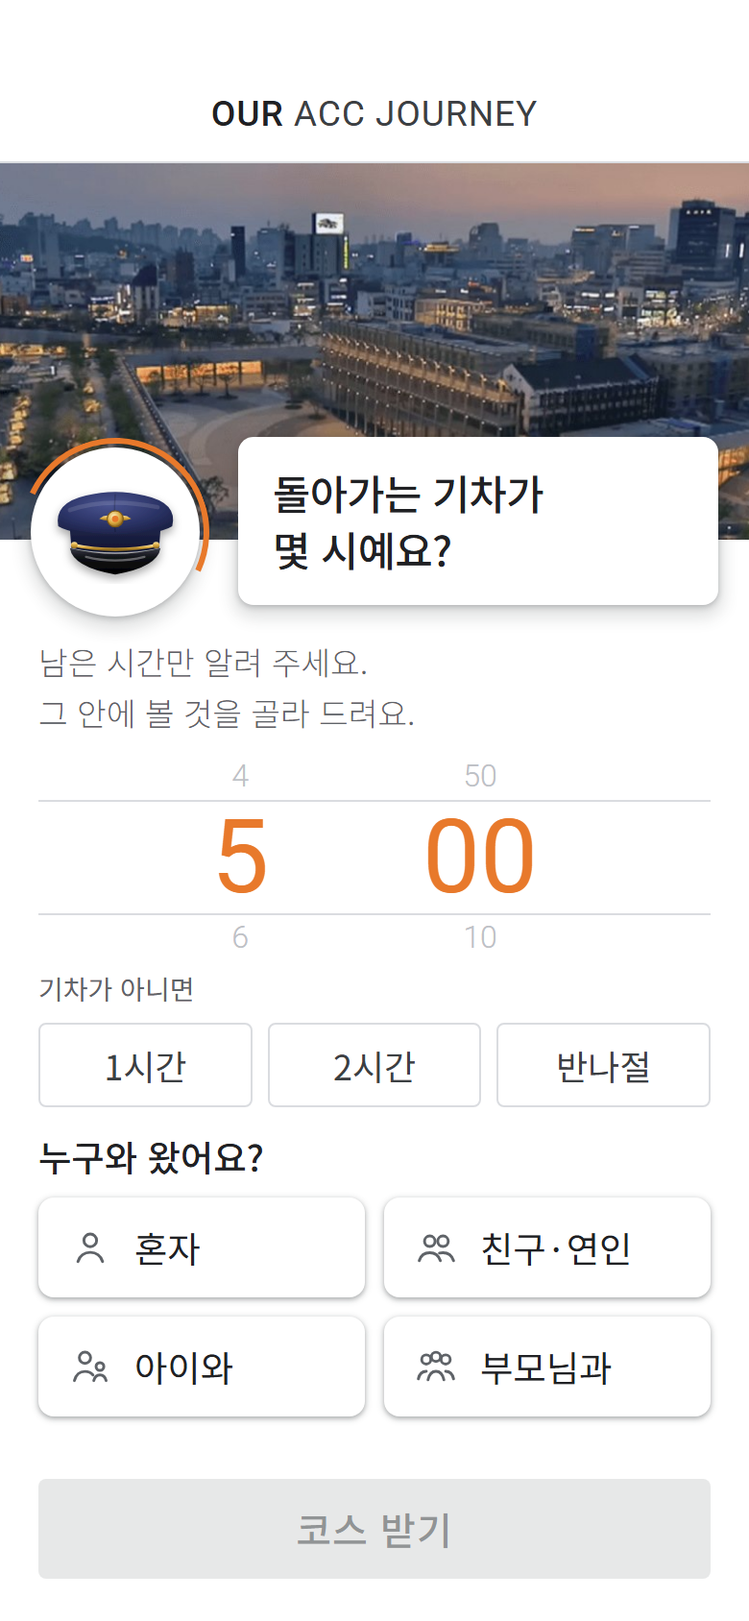
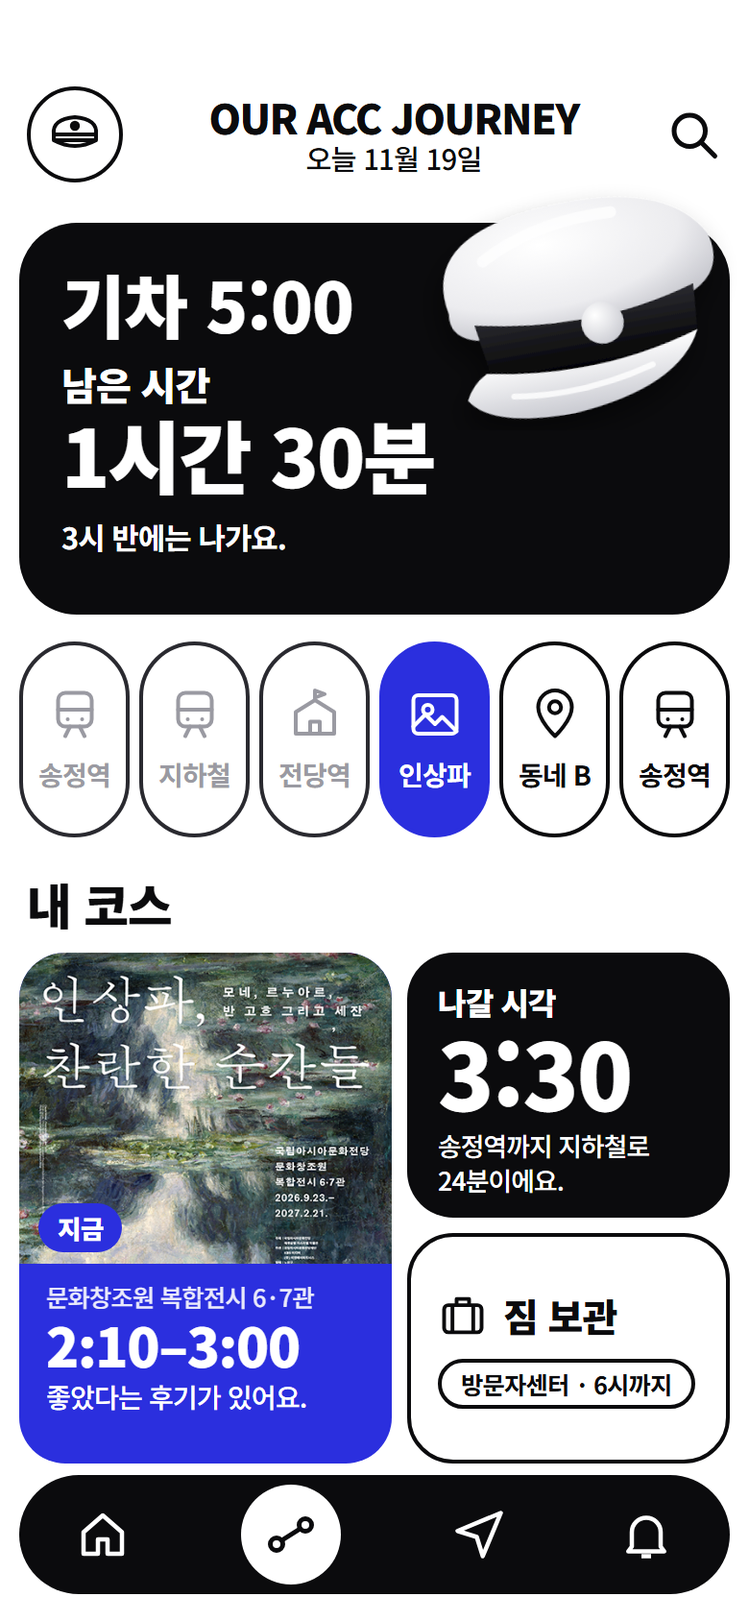
brand: 코스 화면 시안을 새 레이아웃으로, 전시 칸에 인상파 전시 실제 포스터

diff --git a/brand/screen-draft.html b/brand/screen-draft.html
@@ -3,120 +3,148 @@
 <head>
 <meta charset="utf-8">
 <meta name="viewport" content="width=device-width, initial-scale=1">
-<title>OUR ACC JOURNEY — 첫 화면 시안 (Google Arts &amp; Culture 느낌)</title>
-<!-- 참고: 구글 플레이 'Google Arts & Culture' 앱 스크린샷 (2026-11-19 확인) — 흰 위쪽 바와 가는 회색 글씨, 작품 사진을 화면 끝까지 크게, 흰 바탕·가는 회색 구분선, 모서리 작은(4~8px) 테두리 버튼, 옅은 그림자 카드, 고리 두른 동그라미 사진.
-     위쪽 사진: ACC 길라잡이 앱 구글 플레이 스크린샷(전당 투어 화면)에서 잘라 씀 — 저작권 국립아시아문화전당, 팀 시안 확인용. 역무원은 모자만 새로 그림. 화면 글은 팀 brand/service-prompt.md 그대로 -->
+<title>OUR ACC JOURNEY — 코스 화면 시안 (박대식 레이아웃)</title>
+<!-- 레이아웃: 박대식이 보낸 시안 이미지(검정·파랑·흰색, 큰 시간 카드, 노선 칸, 내 코스 카드, 아래 메뉴) 그대로.
+     전시 칸: ACC 공식 누리집 현재전시 〈인상파, 찬란한 순간들〉 포스터 (https://www.acc.go.kr/main/exhibition.do?PID=0202&action=Read&bnkey=EM_0000009913, 2026-11-19 확인)
+       — 기간 2026.9.23.~2027.2.21. · 장소 문화창조원 복합전시 6·7관 · 매표·입장 마감 관람 종료 1시간 전. 포스터 저작권은 ACC·전시 주최 측, 팀 시안 확인용.
+     기차 5:00 · 지금 2:00 · 전시 2:10~3:00 · 나갈 시각 3:30은 예시 (상상). 지하철 24분 · 짐 보관 방문자센터 6시는 공식 확인. 관람료는 넣지 않음 -->
 <link rel="preconnect" href="https://fonts.googleapis.com"><link rel="preconnect" href="https://fonts.gstatic.com" crossorigin>
-<link href="https://fonts.googleapis.com/css2?family=Noto+Sans+KR:wght@300;400;500&family=Roboto:wght@300;400;500&display=swap" rel="stylesheet">
+<link href="https://fonts.googleapis.com/css2?family=Noto+Sans+KR:wght@400;500;700;900&display=swap" rel="stylesheet">
 <style>
-  :root { --ink:#202124; --sub:#5F6368; --line:#DADCE0; --soft:#F1F3F4; --orange:#E8792B; }
+  :root { --black:#0B0B0D; --blue:#2B2FDE; --ink:#0B0B0D; --dim:#9A9AA2; }
   * { box-sizing:border-box; margin:0; padding:0; }
-  body { background:#E8EAED; display:flex; justify-content:center; padding:24px 0;
-         font-family:"Roboto","Noto Sans KR","Malgun Gothic",sans-serif; -webkit-font-smoothing:antialiased; }
-  .phone { width:390px; height:844px; background:#fff; color:var(--ink); border-radius:36px; overflow:hidden; display:flex; flex-direction:column; }
+  body { background:#D9DAE0; display:flex; justify-content:center; padding:24px 0;
+         font-family:"Noto Sans KR","Malgun Gothic",sans-serif; -webkit-font-smoothing:antialiased; }
+  .phone { width:390px; height:844px; background:#fff; color:var(--ink); border-radius:36px; overflow:hidden; position:relative; letter-spacing:-.4px; }
 
-  /* 위쪽 바: 흰 바탕, 가는 회색 글씨, 아래 가는 선 */
-  .bar { padding:48px 20px 14px; font-size:14pt; font-weight:400; color:#3C4043; letter-spacing:.4px; border-bottom:1px solid var(--line); text-align:center; }
-  .bar b { font-weight:500; color:var(--ink); }
+  /* 위쪽 */
+  .head { position:absolute; top:44px; left:14px; right:14px; height:52px; display:flex; align-items:center; justify-content:space-between; }
+  .logo { width:50px; height:50px; border:2px solid var(--black); border-radius:50%; display:flex; align-items:center; justify-content:center; }
+  .name { text-align:center; line-height:1.1; }
+  .name b { display:block; font-size:16pt; font-weight:900; letter-spacing:-.8px; }
+  .name span { font-size:11pt; font-weight:500; }
 
-  /* 사진: 화면 끝까지, 덮개 없이 */
-  .hero { position:relative; height:196px; flex:0 0 auto; }
-  .hero img { position:absolute; inset:0; width:390px; height:196px; object-fit:cover; }
+  /* 큰 시간 카드 */
+  .time { position:absolute; top:116px; left:10px; right:10px; height:204px; background:var(--black); color:#fff; border-radius:30px; padding:22px 22px; }
+  .time .t1 { font-size:27pt; font-weight:900; line-height:1.1; }
+  .time .t2 { font-size:15pt; font-weight:900; margin-top:8px; }
+  .time .t3 { font-size:31pt; font-weight:900; line-height:1.05; letter-spacing:-1px; }
+  .time .t4 { font-size:11.5pt; font-weight:700; margin-top:10px; }
+  .cap3d { position:absolute; top:-22px; right:-6px; }
 
-  /* 역무원 모자: 고리 두른 동그라미 */
-  .who { position:absolute; left:16px; bottom:-40px; width:88px; height:88px; border-radius:50%; background:#fff;
-         display:flex; align-items:center; justify-content:center; box-shadow:0 1px 3px rgba(60,64,67,.3),0 4px 8px 3px rgba(60,64,67,.15); }
-  .who::after { content:""; position:absolute; inset:-5px; border-radius:50%; border:3px solid var(--orange); border-left-color:transparent; border-bottom-color:transparent; transform:rotate(-20deg); }
-  /* 말풍선: 옅은 그림자 카드 */
-  .bubble { position:absolute; right:16px; bottom:-34px; width:250px; background:#fff; border-radius:8px; padding:14px 18px;
-            font-family:"Noto Sans KR",sans-serif; font-size:16pt; font-weight:500; line-height:1.4; letter-spacing:-.3px; word-break:keep-all;
-            box-shadow:0 1px 3px rgba(60,64,67,.3),0 4px 8px 3px rgba(60,64,67,.15); }
+  /* 노선 칸 */
+  .route { position:absolute; top:334px; left:10px; right:10px; display:grid; grid-template-columns:repeat(6,1fr); gap:5px; }
+  .stop { height:102px; border:2px solid var(--black); border-radius:30px; display:flex; flex-direction:column; align-items:center; justify-content:center; gap:6px;
+          font-size:10.5pt; font-weight:700; }
+  .stop.past { color:var(--dim); border-color:#2A2A30; }
+  .stop.past svg { stroke:var(--dim); }
+  .stop.now { background:var(--blue); border-color:var(--blue); color:#fff; }
+  .stop.now svg { stroke:#fff; }
 
-  .guide { font-family:"Noto Sans KR",sans-serif; font-size:12.5pt; font-weight:300; color:var(--sub); line-height:1.6; padding:50px 20px 0; word-break:keep-all; }
+  .sec { position:absolute; top:452px; left:14px; font-size:19pt; font-weight:900; }
 
-  /* 시간: 가운데 줄 위아래 가는 선 */
-  .wheel { position:relative; margin:8px 20px 0; height:108px; display:flex; justify-content:center; align-items:center; gap:80px; }
-  .wheel::before, .wheel::after { content:""; position:absolute; left:0; right:0; height:1px; background:var(--line); }
-  .wheel::before { top:24px; } .wheel::after { bottom:24px; }
-  .col { display:flex; flex-direction:column; align-items:center; }
-  .col span { font-family:"Roboto",sans-serif; font-size:12pt; font-weight:300; color:#BDC1C6; line-height:1.4; }
-  .col span.sel { font-size:40pt; font-weight:400; color:var(--orange); line-height:1.15; }
+  /* 내 코스 */
+  .ex { position:absolute; top:496px; left:10px; width:194px; height:266px; background:var(--blue); border-radius:24px; overflow:hidden; color:#fff; }
+  .ex img { position:absolute; top:0; left:0; width:194px; height:162px; object-fit:cover; object-position:center top; }
+  .ex .tag { position:absolute; top:auto; bottom:110px; left:10px; background:var(--blue); color:#fff; font-size:10pt; font-weight:900; padding:3px 10px; border-radius:999px; }
+  .ex .info { position:absolute; left:14px; right:12px; top:170px; }
+  .ex .where { font-size:9.5pt; font-weight:500; opacity:.9; }
+  .ex .when { font-size:21pt; font-weight:900; line-height:1.15; letter-spacing:-.6px; }
+  .ex .rev { font-size:10.5pt; font-weight:500; margin-top:2px; line-height:1.35; }
 
-  .label { font-family:"Noto Sans KR",sans-serif; font-size:10.5pt; font-weight:400; color:var(--sub); padding:4px 20px 8px; }
-  /* 머물 시간: 모서리 작은 테두리 버튼 */
-  .row3 { display:grid; grid-template-columns:1fr 1fr 1fr; gap:8px; padding:0 20px; }
-  .ob { height:44px; border:1px solid var(--line); border-radius:4px; background:#fff; font-family:"Noto Sans KR",sans-serif; font-size:13.5pt; font-weight:400; color:#3C4043; }
+  .out { position:absolute; top:496px; left:212px; right:10px; height:138px; background:var(--black); color:#fff; border-radius:24px; padding:14px 16px; }
+  .out .k { font-size:12pt; font-weight:900; }
+  .out .v { font-size:36pt; font-weight:900; line-height:1.05; letter-spacing:-1px; }
+  .out .s { font-size:10pt; font-weight:500; margin-top:4px; line-height:1.35; }
 
-  .title { font-family:"Noto Sans KR",sans-serif; font-size:14pt; font-weight:500; padding:12px 20px 8px; color:var(--ink); }
-  /* 동행: 옅은 그림자 카드, 위에 선 아이콘 */
-  .grid { display:grid; grid-template-columns:1fr 1fr; gap:10px; padding:0 20px; }
-  .card { height:52px; border:0; border-radius:8px; background:#fff; display:flex; align-items:center; gap:12px; padding:0 16px;
-          font-family:"Noto Sans KR",sans-serif; font-size:14pt; font-weight:400; color:var(--ink);
-          box-shadow:0 1px 2px rgba(60,64,67,.3),0 1px 3px 1px rgba(60,64,67,.15); }
-  .foot { margin-top:auto; padding:0 20px 22px; }
-  .go { width:100%; height:52px; border:0; border-radius:4px; background:rgba(60,64,67,.12); color:rgba(60,64,67,.5);
-        font-family:"Noto Sans KR",sans-serif; font-size:15pt; font-weight:500; letter-spacing:.5px; }
+  .bag { position:absolute; top:642px; left:212px; right:10px; height:120px; border:2px solid var(--black); border-radius:24px; padding:14px 14px;
+         display:flex; flex-direction:column; justify-content:center; gap:8px; }
+  .bag .k { display:flex; align-items:center; gap:8px; font-size:15pt; font-weight:900; }
+  .bag .chip { align-self:flex-start; border:2px solid var(--black); border-radius:999px; padding:2px 10px; font-size:9.5pt; font-weight:700; }
+
+  /* 아래 메뉴 */
+  .nav { position:absolute; left:10px; right:10px; bottom:14px; height:62px; background:var(--black); border-radius:999px; display:flex; align-items:center; justify-content:space-around; }
+  .nav .on { width:52px; height:52px; border-radius:50%; background:#fff; display:flex; align-items:center; justify-content:center; }
 </style>
 </head>
 <body>
 <div class="phone">
-  <!-- ① 이름 · 사진 · 모자 · 말풍선 · 안내 한 줄 -->
-  <div class="bar"><b>OUR</b> ACC JOURNEY</div>
-  <div class="hero">
-    <img src="screen-draft-hero.jpg" alt="">
-    <div class="who">
-      <svg width="70" height="54" viewBox="0 0 184 140" stroke-linejoin="round">
-        <defs>
-          <radialGradient id="crown" cx=".45" cy=".3" r=".8"><stop offset="0" stop-color="#4A5490"/><stop offset=".55" stop-color="#2B3366"/><stop offset="1" stop-color="#161B3A"/></radialGradient>
-          <linearGradient id="band" x1="0" y1="0" x2="0" y2="1"><stop offset="0" stop-color="#1E2448"/><stop offset="1" stop-color="#0F1330"/></linearGradient>
-          <linearGradient id="visor" x1="0" y1="0" x2="0" y2="1"><stop offset="0" stop-color="#3A3D48"/><stop offset=".35" stop-color="#121318"/><stop offset="1" stop-color="#000"/></linearGradient>
-          <linearGradient id="gold" x1="0" y1="0" x2="0" y2="1"><stop offset="0" stop-color="#FFE7A3"/><stop offset=".5" stop-color="#D9A83E"/><stop offset="1" stop-color="#8F6A1E"/></linearGradient>
-          <radialGradient id="emb" cx=".4" cy=".35" r=".7"><stop offset="0" stop-color="#FFF1C2"/><stop offset=".6" stop-color="#D9A83E"/><stop offset="1" stop-color="#7E5A16"/></radialGradient>
-          <filter id="soft" x="-20%" y="-20%" width="140%" height="160%"><feDropShadow dx="0" dy="6" stdDeviation="6" flood-color="#000" flood-opacity=".35"/></filter>
-        </defs>
-        <g filter="url(#soft)">
-          <!-- 크라운 (위가 넓은 천) -->
-          <path d="M14 62 Q8 30 52 20 Q92 10 132 20 Q178 30 170 62 Q150 74 92 76 Q34 74 14 62 Z" fill="url(#crown)"/>
-          <path d="M30 40 Q80 22 150 36" fill="none" stroke="#fff" stroke-opacity=".12" stroke-width="6" stroke-linecap="round"/>
-          <path d="M92 18 Q90 46 92 70" fill="none" stroke="#000" stroke-opacity=".18" stroke-width="2"/>
-          <!-- 띠 -->
-          <path d="M30 66 Q92 80 154 66 L152 92 Q92 104 32 92 Z" fill="url(#band)"/>
-          <!-- 금색 끈 -->
-          <path d="M34 88 Q92 100 150 88" fill="none" stroke="url(#gold)" stroke-width="4.5" stroke-linecap="round"/>
-          <circle cx="36" cy="88" r="4.5" fill="url(#gold)"/><circle cx="148" cy="88" r="4.5" fill="url(#gold)"/>
-          <!-- 챙 (광택) -->
-          <path d="M30 92 Q92 108 154 92 Q150 118 92 128 Q34 118 30 92 Z" fill="url(#visor)"/>
-          <path d="M52 104 Q92 114 132 104" fill="none" stroke="#fff" stroke-opacity=".35" stroke-width="3" stroke-linecap="round"/>
-          <!-- 휘장 -->
-          <path d="M70 52 Q80 44 92 50 Q104 44 114 52 Q104 56 92 54 Q80 56 70 52 Z" fill="url(#gold)"/>
-          <circle cx="92" cy="52" r="11" fill="url(#emb)" stroke="#7E5A16" stroke-width="1.5"/>
-          <circle cx="92" cy="52" r="4.5" fill="#E8792B"/>
-        </g>
-      </svg>
+  <!-- 위쪽: 모자 로고 · 이름 · 날짜 · 찾기 -->
+  <div class="head">
+    <div class="logo"><svg width="28" height="22" viewBox="0 0 28 22" fill="none" stroke="#0B0B0D" stroke-width="2" stroke-linejoin="round"><path d="M3 11 Q2 3 14 2 Q26 3 25 11 Z"/><path d="M3 11 H25 V14 H3 Z"/><path d="M3 14 Q14 20 25 14"/><circle cx="14" cy="6.5" r="1.6" fill="#0B0B0D"/></svg></div>
+    <div class="name"><b>OUR ACC JOURNEY</b><span>오늘 11월 19일</span></div>
+    <svg width="30" height="30" viewBox="0 0 24 24" fill="none" stroke="#0B0B0D" stroke-width="2" stroke-linecap="round"><circle cx="10.5" cy="10.5" r="6.5"/><path d="M15.5 15.5 L21 21"/></svg>
+  </div>
+
+  <!-- 큰 시간 카드 -->
+  <div class="time">
+    <div class="t1">기차 5:00</div>
+    <div class="t2">남은 시간</div>
+    <div class="t3">1시간 30분</div>
+    <div class="t4">3시 반에는 나가요.</div>
+    <!-- 흰 역무원 모자 (입체 느낌, 새로 그림) -->
+    <svg class="cap3d" width="170" height="130" viewBox="0 0 170 130">
+      <defs>
+        <radialGradient id="cw" cx=".38" cy=".3" r=".85"><stop offset="0" stop-color="#FFFFFF"/><stop offset=".6" stop-color="#ECECEF"/><stop offset="1" stop-color="#B9BAC2"/></radialGradient>
+        <linearGradient id="vw" x1="0" y1="0" x2="0" y2="1"><stop offset="0" stop-color="#FFFFFF"/><stop offset="1" stop-color="#C9CAD1"/></linearGradient>
+        <linearGradient id="bk" x1="0" y1="0" x2="0" y2="1"><stop offset="0" stop-color="#2A2A30"/><stop offset="1" stop-color="#050506"/></linearGradient>
+        <radialGradient id="btn" cx=".35" cy=".3" r=".8"><stop offset="0" stop-color="#FFFFFF"/><stop offset="1" stop-color="#C8C9D0"/></radialGradient>
+        <filter id="sh" x="-20%" y="-20%" width="140%" height="160%"><feDropShadow dx="-4" dy="8" stdDeviation="7" flood-color="#000" flood-opacity=".45"/></filter>
+      </defs>
+      <g filter="url(#sh)" transform="rotate(-10 85 65)">
+        <path d="M18 58 Q10 18 70 12 Q140 6 158 40 Q164 62 140 70 Q90 80 30 74 Q16 70 18 58 Z" fill="url(#cw)"/>
+        <path d="M30 66 Q92 80 146 64 L144 88 Q90 102 34 92 Z" fill="url(#bk)"/>
+        <path d="M32 92 Q90 104 144 88 Q130 116 74 120 Q30 120 20 104 Q24 96 32 92 Z" fill="url(#vw)"/>
+        <path d="M44 106 Q80 112 118 102" fill="none" stroke="#fff" stroke-width="3" stroke-linecap="round" opacity=".8"/>
+        <circle cx="96" cy="76" r="11" fill="url(#btn)"/>
+        <path d="M40 34 Q70 18 110 20" fill="none" stroke="#fff" stroke-width="6" stroke-linecap="round" opacity=".7"/>
+      </g>
+    </svg>
+  </div>
+
+  <!-- 노선 칸: 지난 곳은 흐리게, 지금은 파랑 -->
+  <div class="route">
+    <div class="stop past"><svg width="30" height="30" viewBox="0 0 24 24" fill="none" stroke-width="1.6" stroke-linecap="round" stroke-linejoin="round"><rect x="5" y="3" width="14" height="14" rx="3"/><path d="M5 10 H19 M9 14 h.01 M15 14 h.01 M8 21 l2-4 M16 21 l-2-4"/></svg>송정역</div>
+    <div class="stop past"><svg width="30" height="30" viewBox="0 0 24 24" fill="none" stroke-width="1.6" stroke-linecap="round" stroke-linejoin="round"><rect x="5" y="3" width="14" height="14" rx="3"/><path d="M5 10 H19 M9 14 h.01 M15 14 h.01 M8 21 l2-4 M16 21 l-2-4"/></svg>지하철</div>
+    <div class="stop past"><svg width="30" height="30" viewBox="0 0 24 24" fill="none" stroke-width="1.6" stroke-linecap="round" stroke-linejoin="round"><path d="M4 20 V11 L12 6 L20 11 V20 Z M10 20 v-5 h4 v5 M12 6 V2 l4 1.5 L12 5"/></svg>전당역</div>
+    <div class="stop now"><svg width="30" height="30" viewBox="0 0 24 24" fill="none" stroke-width="1.6" stroke-linecap="round" stroke-linejoin="round"><rect x="3" y="4" width="18" height="16" rx="2"/><circle cx="9" cy="10" r="2"/><path d="M3 17 l5-5 4 4 3-3 6 6"/></svg>인상파</div>
+    <div class="stop"><svg width="30" height="30" viewBox="0 0 24 24" fill="none" stroke="#0B0B0D" stroke-width="1.6" stroke-linecap="round" stroke-linejoin="round"><path d="M12 21 s-7-6.5-7-12 a7 7 0 0 1 14 0 c0 5.5-7 12-7 12 z"/><circle cx="12" cy="9" r="2.5"/></svg>동네 B</div>
+    <div class="stop"><svg width="30" height="30" viewBox="0 0 24 24" fill="none" stroke="#0B0B0D" stroke-width="1.6" stroke-linecap="round" stroke-linejoin="round"><rect x="5" y="3" width="14" height="14" rx="3"/><path d="M5 10 H19 M9 14 h.01 M15 14 h.01 M8 21 l2-4 M16 21 l-2-4"/></svg>송정역</div>
+  </div>
+
+  <div class="sec">내 코스</div>
+
+  <!-- 지금 볼 전시: 실제 포스터 -->
+  <div class="ex">
+    <img src="screen-draft-poster.jpg" alt="인상파, 찬란한 순간들 포스터">
+    <div class="tag">지금</div>
+    <div class="info">
+      <div class="where">문화창조원 복합전시 6·7관</div>
+      <div class="when">2:10–3:00</div>
+      <div class="rev">좋았다는 후기가 있어요.</div>
     </div>
-    <div class="bubble">돌아가는 기차가<br>몇 시예요?</div>
-  </div>
-  <div class="guide">남은 시간만 알려 주세요.<br>그 안에 볼 것을 골라 드려요.</div>
-
-  <!-- ② 남은 시간 -->
-  <div class="wheel">
-    <div class="col"><span>4</span><span class="sel">5</span><span>6</span></div>
-    <div class="col"><span>50</span><span class="sel">00</span><span>10</span></div>
-  </div>
-  <div class="label">기차가 아니면</div>
-  <div class="row3"><button class="ob">1시간</button><button class="ob">2시간</button><button class="ob">반나절</button></div>
-
-  <!-- ③ 동행 -->
-  <div class="title">누구와 왔어요?</div>
-  <div class="grid">
-    <button class="card"><svg width="22" height="22" viewBox="0 0 24 24" fill="none" stroke="#5F6368" stroke-width="1.6" stroke-linecap="round"><circle cx="12" cy="8" r="3.6"/><path d="M5 20c1.2-3.6 4-5.2 7-5.2s5.8 1.6 7 5.2"/></svg>혼자</button>
-    <button class="card"><svg width="22" height="22" viewBox="0 0 24 24" fill="none" stroke="#5F6368" stroke-width="1.6" stroke-linecap="round"><circle cx="8.5" cy="8.5" r="3"/><circle cx="16" cy="8.5" r="3"/><path d="M2.5 19.5c.9-3 3.2-4.5 6-4.5s5 1.5 6 4.5M14 15.2c.6-.1 1.3-.2 2-.2 2.8 0 5 1.5 6 4.5"/></svg>친구·연인</button>
-    <button class="card"><svg width="22" height="22" viewBox="0 0 24 24" fill="none" stroke="#5F6368" stroke-width="1.6" stroke-linecap="round"><circle cx="9" cy="7" r="3.2"/><circle cx="17.5" cy="12" r="2.2"/><path d="M3 20c.9-3.4 3.2-5.2 6-5.2 1.8 0 3.4.7 4.5 2M14 20c.5-2 1.8-3.2 3.5-3.2S20.5 18 21 20"/></svg>아이와</button>
-    <button class="card"><svg width="22" height="22" viewBox="0 0 24 24" fill="none" stroke="#5F6368" stroke-width="1.6" stroke-linecap="round"><circle cx="6.5" cy="8" r="2.6"/><circle cx="12" cy="6.5" r="2.6"/><circle cx="17.5" cy="8" r="2.6"/><path d="M2 19c.6-2.8 2.3-4.3 4.5-4.3M7.5 19.5c.7-3.2 2.4-4.8 4.5-4.8s3.8 1.6 4.5 4.8M17.5 14.7c2.2 0 3.900 1.5 4.5 4.3"/></svg>부모님과</button>
   </div>
 
-  <!-- ④ 코스 받기 (고르기 전, 비활성) -->
-  <div class="foot"><button class="go">코스 받기</button></div>
+  <!-- 나갈 시각 -->
+  <div class="out">
+    <div class="k">나갈 시각</div>
+    <div class="v">3:30</div>
+    <div class="s">송정역까지 지하철로<br>24분이에요.</div>
+  </div>
+
+  <!-- 짐 보관 -->
+  <div class="bag">
+    <div class="k"><svg width="26" height="26" viewBox="0 0 24 24" fill="none" stroke="#0B0B0D" stroke-width="1.8" stroke-linejoin="round"><rect x="3" y="7" width="18" height="13" rx="2"/><path d="M9 7 V4 h6 v3 M7 7 v13 M17 7 v13"/></svg>짐 보관</div>
+    <div class="chip">방문자센터 · 6시까지</div>
+  </div>
+
+  <!-- 아래 메뉴 -->
+  <div class="nav">
+    <svg width="30" height="30" viewBox="0 0 24 24" fill="none" stroke="#fff" stroke-width="1.8" stroke-linejoin="round"><path d="M4 11 L12 4 L20 11 V20 H14 V14 H10 V20 H4 Z"/></svg>
+    <div class="on"><svg width="30" height="30" viewBox="0 0 24 24" fill="none" stroke="#0B0B0D" stroke-width="2" stroke-linecap="round"><circle cx="6" cy="16" r="2.6"/><circle cx="18" cy="8" r="2.6"/><path d="M8.2 14.4 L15.8 9.6"/></svg></div>
+    <svg width="30" height="30" viewBox="0 0 24 24" fill="none" stroke="#fff" stroke-width="1.8" stroke-linejoin="round"><path d="M21 3 L3 10.5 L11 13 L13.5 21 Z"/></svg>
+    <svg width="30" height="30" viewBox="0 0 24 24" fill="none" stroke="#fff" stroke-width="1.8" stroke-linejoin="round"><path d="M6 17 V11 a6 6 0 0 1 12 0 V17 l1.5 2 h-15 Z M10 21 h4"/></svg>
+  </div>
 </div>
 </body>
 </html>

diff --git a/research.md b/research.md
@@ -92,3 +92,4 @@
 - 2026-11-19 첫 화면 시안 수정 (screen-draft.html/png, screen-draft-hero.jpg): 위쪽 그림을 ACC 길라잡이 앱 구글 플레이 스크린샷 '전당 투어' 화면의 밤 ACC 사진(광장·건물 조명)으로 바꿈 — 스크린샷에서 잘라 씀(810×394). 저작권 국립아시아문화전당, 공공누리 표시 미확인 → 팀 시안 확인용으로만, 외부 공개 전 허락 필요. 역무원 캐릭터는 얼굴·몸을 빼고 모자만 실사 느낌(천 크라운·광택 챙·금색 끈·휘장)으로 새로 그려 흰 원 안에 넣음
 - 2026-11-19 첫 화면 시안 글자체·박스 모던하게 (screen-draft.html/png): ACC 길라잡이 앱처럼 굵기를 낮춘 고딕 Noto Sans KR(구글 폰트, 300~500)로 바꿈, 굵은 800 없앰. 위쪽 바 글자 간격 넓힘. 휠은 가운데 줄만 연한 띠, 머물 시간은 한 줄 묶음 버튼(구분선), 동행은 가는 선 아이콘(혼자·친구·연인·아이와·부모님과)+글 카드, 테두리는 1px 연회색·모서리 14px. 공식 앱 글꼴 이름은 확인 못 함(화면 보고 비슷한 글꼴 고름). 키워드 추가: Noto Sans KR, 묶음 버튼, 선 아이콘
 - 2026-11-19 첫 화면 시안을 Google Arts & Culture 앱 느낌으로 변경 (screen-draft.html/png). 참고: https://play.google.com/store/apps/details?id=com.google.android.apps.cultural 스크린샷 — 흰 위쪽 바·가는 회색 글씨, 사진을 화면 끝까지, 흰 바탕·가는 회색 구분선(#DADCE0), 모서리 작은 테두리 버튼(4px), 옅은 그림자 카드(8px), 고리 두른 동그라미. 글꼴 Roboto(영문)+Noto Sans KR(한글). 휠은 가운데 줄 위아래 가는 선. 코스 받기는 회색 비활성. 주황은 시간 숫자·고리에만. 키워드 추가: Google Arts & Culture, 머티리얼 디자인, 그림자 카드
+- 2026-11-19 코스 화면 시안 (screen-draft.html/png, screen-draft-poster.jpg): 박대식이 보낸 레이아웃 이미지대로 바꿈 — 위쪽 모자 로고·이름·날짜·찾기, 검정 큰 시간 카드(기차 5:00 · 남은 시간 1시간 30분 · 3시 반에는 나가요)와 흰 입체 모자, 노선 칸 6개(송정역·지하철·전당역·전시·동네 B·송정역, 지금은 파랑), 내 코스(전시 카드·나갈 시각·짐 보관), 검정 아래 메뉴. 전시 칸은 ACC 현재전시 〈인상파, 찬란한 순간들〉 실제 포스터(https://www.acc.go.kr/main/exhibition.do?PID=0202&action=Read&bnkey=EM_0000009913). 확인: 기간 2026.9.23.~2027.2.21., 문화창조원 복합전시 6·7관, 화·목·금·일 10~18시·수·토 10~20시, 월요일 휴관, 매표·입장 마감 관람 종료 1시간 전. 짐 보관은 '확인 필요' 대신 공식 확인한 "방문자센터 · 6시까지"로 씀. 포스터 저작권 ACC·주최 측 → 팀 시안 확인용. 키워드 추가: 인상파 찬란한 순간들, 입장 마감, 포스터

diff --git a/아시아문화전당조사.md b/아시아문화전당조사.md
@@ -19,6 +19,7 @@
 | 내리는 출입구 | 문화전당역 5번·6번 출입구 (ACC 오시는길). 지도에 표시된 ACC 게이트: 1·2·3·4·6번. 주소 동구 문화전당로 38 | ⑯ |
 | ACC 안 배치 (위가 북쪽) | 가운데 아시아문화광장(땅 아래 B2, 안내소) · 서쪽 민주평화교류원(옛 도청, 1번 게이트) · 북쪽 예술극장(6번 게이트) · 북동쪽 하늘마당(5번 게이트) · 동쪽 문화창조원(4번 게이트) · 남동쪽 문화정보원(박물관, 3번 게이트) · 남서쪽 어린이문화원(2번 게이트). 공식 조감도는 남쪽이 위라 방향을 바꿔 읽음 | ⑰ ⑯ |
 | 전시별 관람 소요시간 | 공식 전시 상세 페이지 항목은 기간·시간·장소·대상·가격·예매·문의뿐, 소요시간 없음 (현재전시 5건 확인). 〈인상파, 찬란한 순간들〉의 "회차당 약 40분"은 강연형 도슨트 프로그램 시간(문화창조원 B3 대나무정원)이지 관람 시간이 아님 | ⑱ |
+| 〈인상파, 찬란한 순간들〉 | 2026.9.23.~2027.2.21. · 문화창조원 복합전시 6·7관 · 화·목·금·일 10~18시, 수·토 10~20시, 월요일 휴관 · 매표·입장 마감 관람 종료 1시간 전 | ⑱ |
 | 짐 보관 | 방문자센터(아시아문화광장) 09:00~18:00, 물품보관소 5곳 10:00~18:00 (휴무일 미운영). 문화전당역에도 물품보관함 1곳. 요금·크기 제한은 미확인 | ⑮ ⑭ |
 | 설계 | 건축가 우규승 | [Claude 지식] |
 | 문의 | 1899-5566 | ② |
